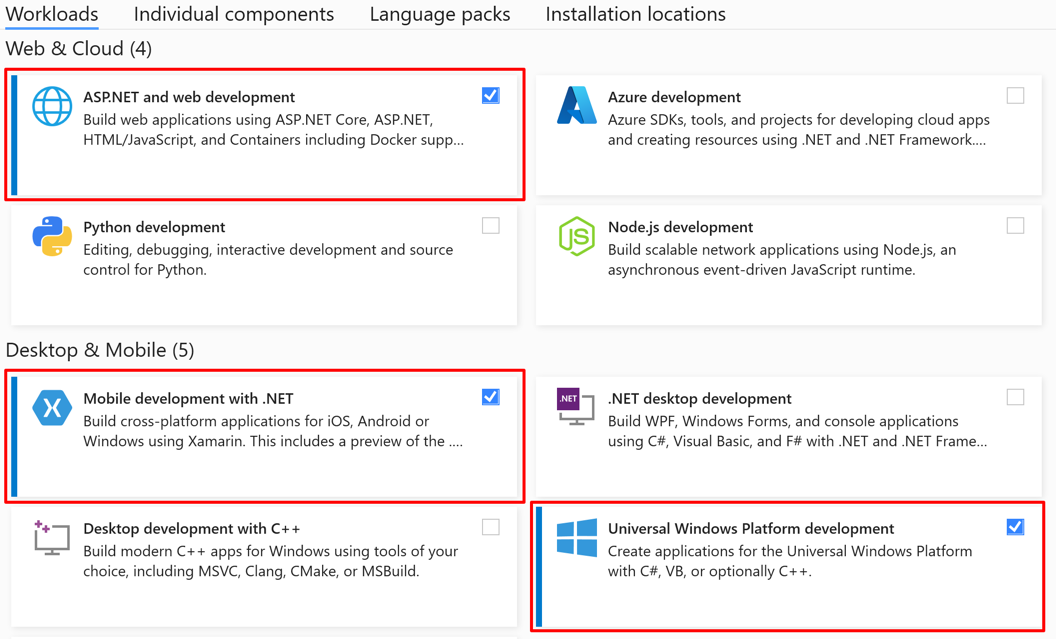
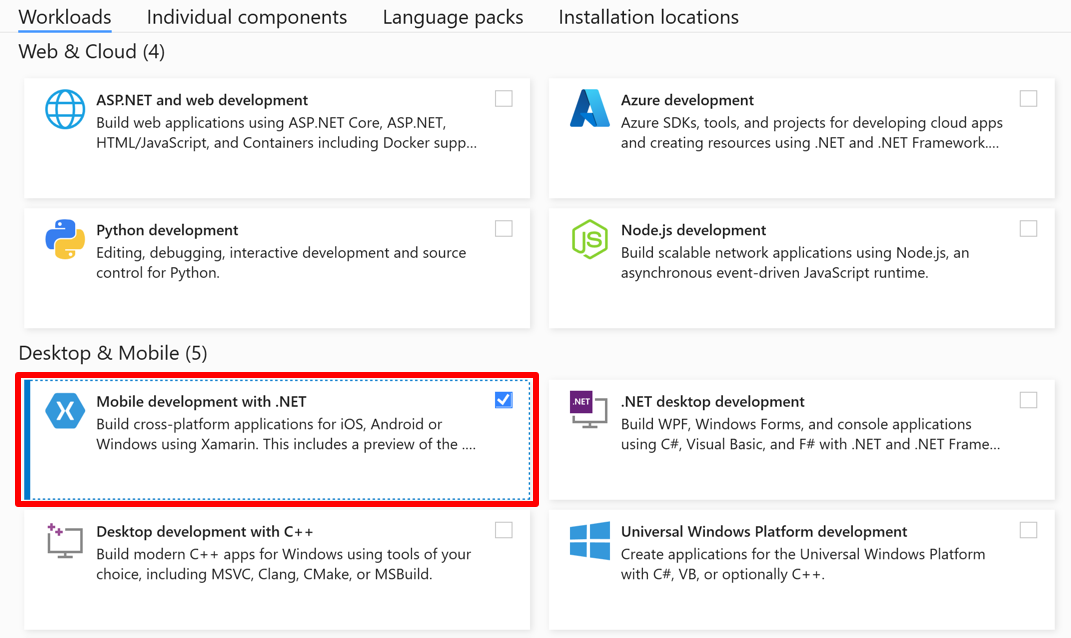
17.1 updates (#192)
* VS 17.1 P1 updates.

* Edit.

* Edits.

* Edit.

* Restored CLI instructions (commented out).

* Remove image.

* Add red border.

* Remove WinUI 3 install steps

* Update Build your first app doc for Preview 1

* Installation link.

* Preview clarification.

diff --git a/docs/get-started/first-app.md b/docs/get-started/first-app.md
@@ -1,9 +1,10 @@
 ---
 title: "Build your first .NET MAUI app"
 description: "Learn how to create and run your first .NET MAUI app on Android."
-zone_pivot_groups: preview-platforms
-ms.date: 10/14/2021
+ms.date: 11/08/2021
 ---
+
+<!-- zone_pivot_groups: preview-platforms -->
 
 # Build your first app
 
@@ -13,17 +14,17 @@ In this tutorial, you'll learn how to create and run your first .NET Multi-platf
 
 Visual Studio for Mac support will arrive in a future release.
 
-::: zone pivot="windows"
+<!-- ::: zone pivot="windows" -->
 
 ## Prerequisites
 
-- The latest preview of Visual Studio 2022, with the required workloads. For more information, see [Installation](installation.md).
+- The latest preview of Visual Studio 2022 17.1, with the required workload. For more information, see [Installation](installation.md).
 
-## Get started with Visual Studio 2022 (Preview)
+## Get started with Visual Studio 2022 17.1 (Preview)
 
 In this tutorial, you'll create your first .NET MAUI app in Visual Studio 2022, and run it on an Android emulator:
 
-1. Launch Visual Studio 2022, and in the start window click **Create a new project** to create a new project:
+1. Launch Visual Studio 2022 17.1 (Preview), and in the start window click **Create a new project** to create a new project:
 
     :::image type="content" source="media/first-app/new-solution.png" alt-text="New solution.":::
 
@@ -38,16 +39,6 @@ In this tutorial, you'll create your first .NET MAUI app in Visual Studio 2022, 
 1. Wait for the project to be created, and its dependencies to be restored:
 
     :::image type="content" source="media/first-app/restored-dependencies.png" alt-text="Restored dependencies.":::
-
-1. In the Visual Studio toolbar, press the **Android Emulator** button to start the download of the Android SDK and emulator:
-
-    :::image type="content" source="media/first-app/android-emulator-button.png" alt-text="Android emulator button.":::
-
-    > [!NOTE]
-    > To work around current issues in Preview 5:
-    >
-    > - If the **Android Emulator** button does not appear, restart Visual Studio and reload the solution.
-    > - If Visual Studio builds the app and attempts to deploy it to Windows, restart Visual Studio a second time and reload the solution.  
 
 1. In the **Android SDK License Acceptance** window, press the **Accept** button:
 
@@ -81,7 +72,7 @@ In this tutorial, you'll create your first .NET MAUI app in Visual Studio 2022, 
 
     :::image type="content" source="media/first-app/android-device-manager.png" alt-text="Android Device Manager window.":::
 
-1. In the Visual Studio toolbar, press the **Pixel 2 - API 28 (Android 9.0 - API 28)** button to build and run the app:
+1. In the Visual Studio toolbar, press the **Pixel 5 - API 30 (Android 11.0 - API 30)** button to build and run the app:
 
     :::image type="content" source="media/first-app/pixel2-api28.png" alt-text="Pixel 2 API 28 emulator button.":::
 
@@ -91,7 +82,7 @@ In this tutorial, you'll create your first .NET MAUI app in Visual Studio 2022, 
 
     :::image type="content" source="media/first-app/running-app.png" alt-text="App running in the Android emulator." lightbox="media/first-app/running-app-large.png":::
 
-## Build and debug iOS apps
+<!-- ## Build and debug iOS apps
 
 If, while connecting Visual Studio to your Mac through Xamarin Mac Agent (XMA), you are prompted to install a different version of the SDK, you can ignore the prompt since it refers to a legacy version of XMA.
 
@@ -157,3 +148,5 @@ You can retrieve a list of possible unique device id (UDID) values by executing 
 The default iOS simulator will be launched if you don't specify a UDID.
 
 ::: zone-end
+
+-->

diff --git a/docs/get-started/installation.md b/docs/get-started/installation.md
@@ -1,7 +1,7 @@
 ---
 title: ".NET MAUI installation"
 description: "Installation instructions for .NET MAUI."
-ms.date: 10/12/2021
+ms.date: 11/08/2021
 ---
 
 # Installation
@@ -12,26 +12,11 @@ To create .NET Multi-platform App UI (.NET MAUI) apps, you need the latest previ
 
 ## Visual Studio
 
-To create .NET MAUI apps, you'll need [Visual Studio 2022 Preview 5](https://visualstudio.microsoft.com/vs/preview/vs2022/). Either install Visual Studio, or modify your installation, and install the following **workloads**:
+To create .NET MAUI apps, you'll need [Visual Studio 17.1 Preview 1](https://visualstudio.microsoft.com/vs/preview/). Either install Visual Studio, or modify your installation, and install the following **workloads**:
 
 - Mobile development with .NET
-- Universal Windows Platform development
-- ASP.NET and web development (required for .NET MAUI Blazor apps)
 
   :::image type="content" source="media/installation/vs-workloads.png" alt-text="Visual Studio workloads for .NET MAUI.":::
-
-In the **Installation details** > **Mobile development with .NET** section of the installation window, check the **.NET MAUI (Preview)** optional workload:
-
-:::image type="content" source="media/installation/vs-optional.png" alt-text="Visual Studio installer enabling the .NET MAUI optional workload.":::
-
-## Windows (WinUI 3)
-
-To create apps that target Windows UI Library (WinUI) 3, install the following Visual Studio extension:
-
-- [Single-project MSIX Packaging Tools](https://marketplace.visualstudio.com/items?itemName=ProjectReunion.MicrosoftSingleProjectMSIXPackagingToolsDev17)
-
-> [!IMPORTANT]
-> You **must** uncomment the Windows `TargetFrameworks` from your _.csproj_ file in order to enable Windows development.
 
 ## Next steps
 
